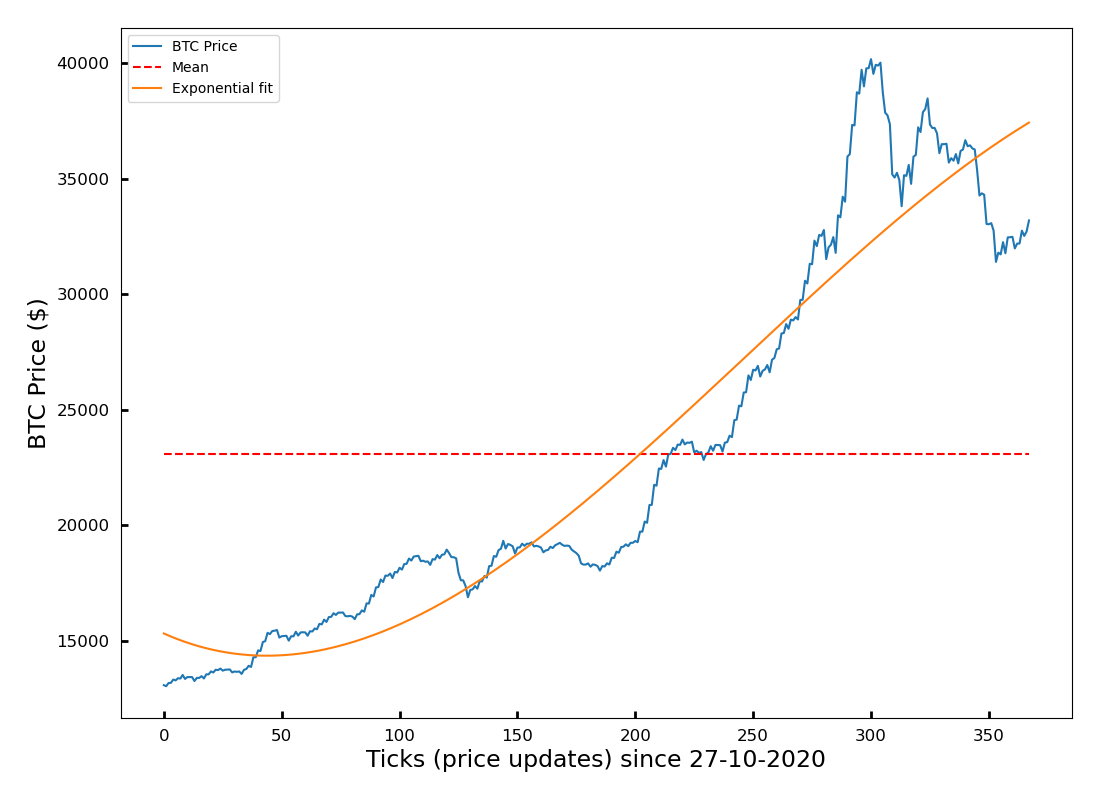
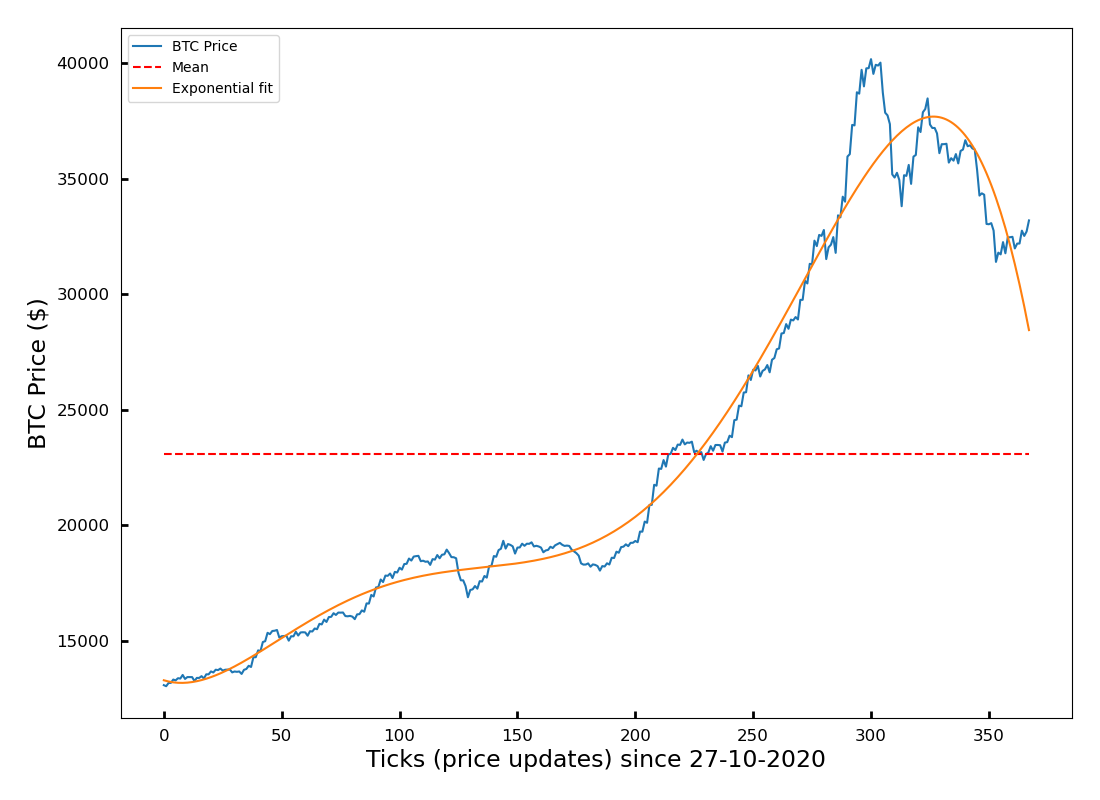
Finalized BTC example

diff --git a/examples/bitcoin.py b/examples/bitcoin.py
@@ -27,12 +27,12 @@ fig.savefig('processed_data/BTC_raw_and_filtered.png')
 
 #Obtain sample mean of raw data
 mean = stat.mean(data)
-popt = regr.fit_poly(ticks, data, degree = 3)
+popt = regr.fit_poly(ticks, data, degree = 5)
 fit = regr.compute_poly(popt, ticks)
 
 #Obtain sample mean of filtered data
 mean_f = stat.mean(filtered_data)
-popt_f = regr.fit_poly(ticks, data, degree=3)
+popt_f = regr.fit_poly(ticks, data, degree=5)
 fit_f = regr.compute_poly(popt_f, ticks)
 
 #Analysis plots for raw and filtered data
